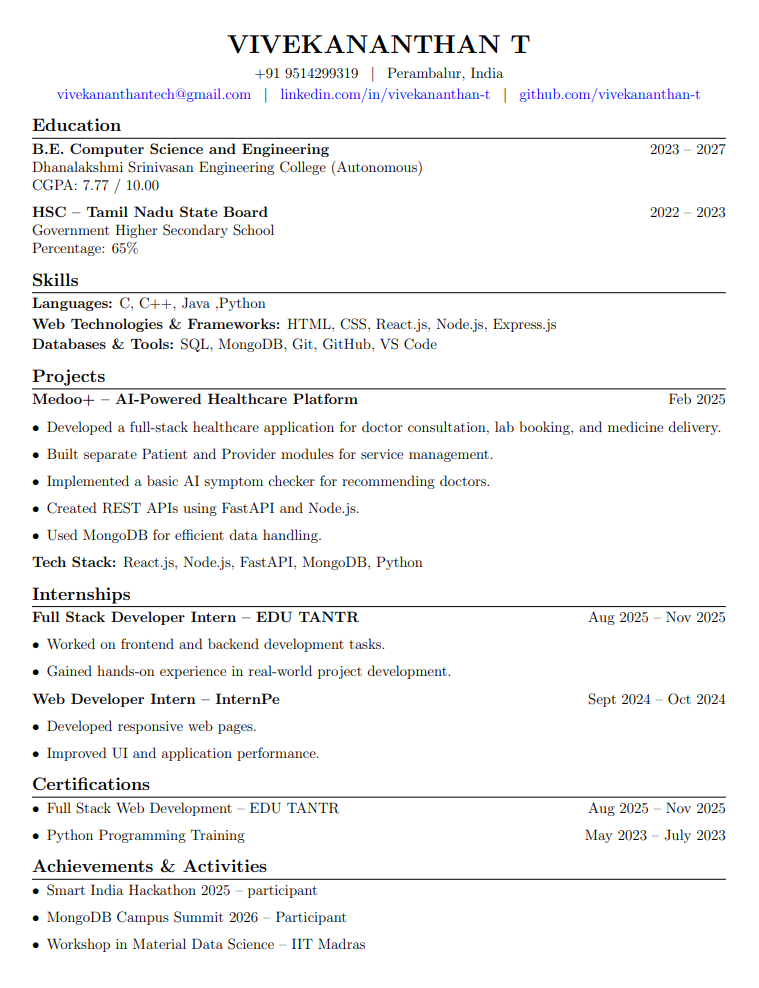
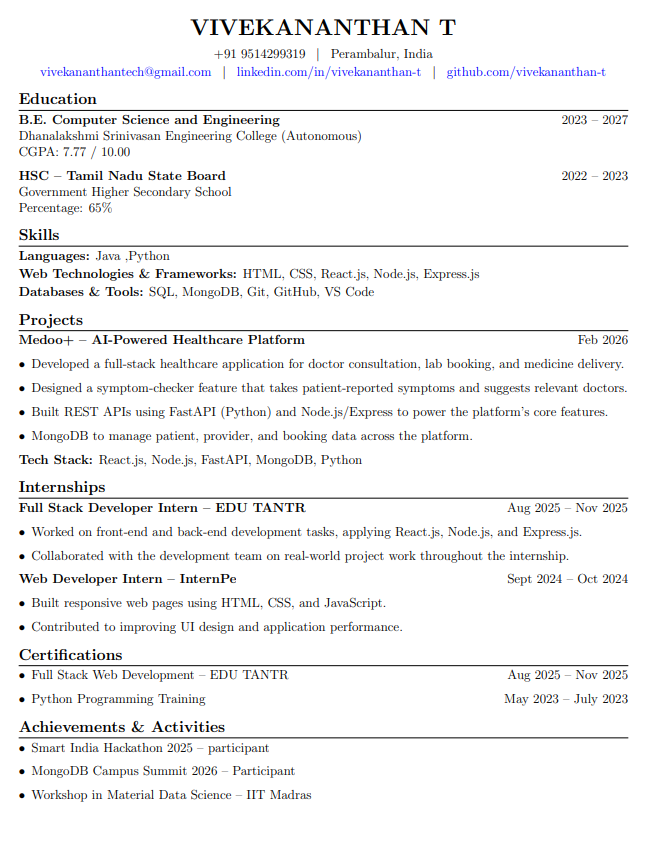
Update portfolio

Changed region(s): [[0.031, 0.0, 0.9907, 0.98], [0.774, 0.7656, 0.9907, 0.8575], [0.8669, 0.1837, 0.9598, 0.245]]

diff --git a/src/pages/CertificationsPage.tsx b/src/pages/CertificationsPage.tsx
@@ -60,12 +60,11 @@ const Certifications = [
   {
     id: 2,
     title: "Python Programming Training",
-    issuer: "Coursera",
+    issuer: "SYSTECH",
     date: "May 2023 – July 2023",
     skills: ["Python", "Programming Basics"]
   }
 ];
-
 const expoWorkshops = [
   {
     id: 1,
